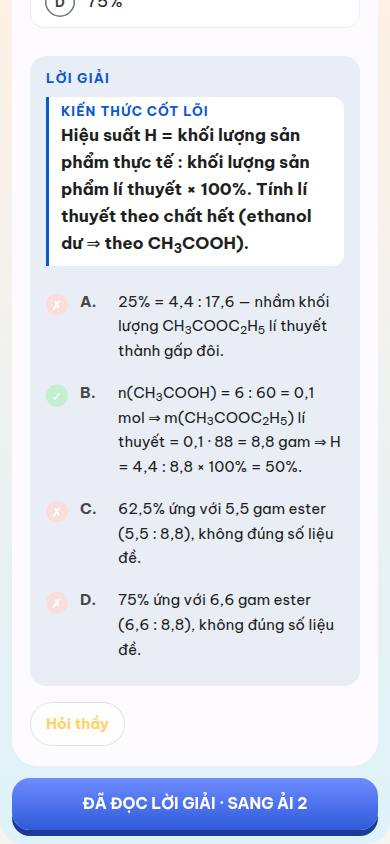
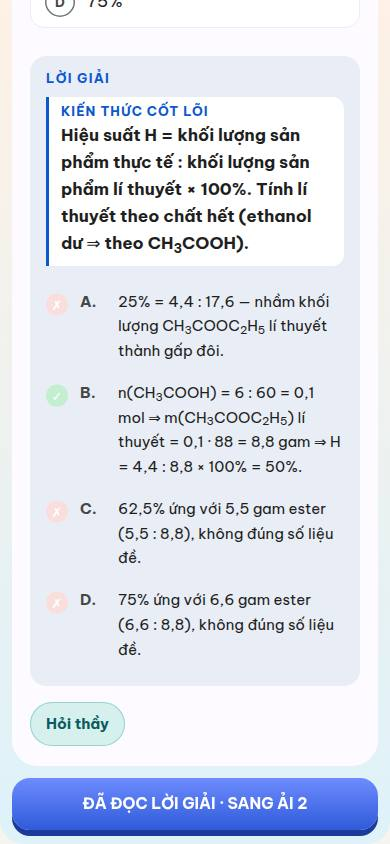
Đảo 2.0 · nút "Hỏi thầy" đọc được trên thẻ lời giải sáng (lỗi có từ trước OMNI)
Nguyên nhân gốc: dao.css tô nút Hỏi thầy kiểu kính tối + chữ vàng cho Đảo cũ nền tối; Đảo 2.0 dùng thẻ giấy sáng ⇒ chữ vàng trên nền kem,
trông như nút bị khoá (đối chiếu bằng bản build thật). Chỉ đổi màu trong Đảo 2.0 (đặc hiệu 0,4,1), cỡ/chữ/vị trí giữ nguyên.

Claude-Session: https://claude.ai/code/session_01CNsQjeB4jcWjbMohw272Tz

Changed region(s): [[0.0615, 0.8318, 0.3385, 0.8934]]

diff --git a/src/game/than-thu-v2/dao2/dao2.css b/src/game/than-thu-v2/dao2/dao2.css
@@ -501,3 +501,7 @@ html.may-yeu .dao2 .dao2-3d-bot,html.may-yeu .dao2 .dao2-3d-cuon,html.may-yeu .d
 /* OMNI 3 · ĐỀ THỬ: CHỈ bố cục — danh sách thẻ câu giấy của Đảo (dọc như ải), rộng tối đa 760 px cho dễ đọc; màu/nút dùng lại lớp sẵn có. */
 .dao2 .dao2-de-thu{display:flex;flex-direction:column;gap:12px;max-width:760px}
 .dao2 .dao2-de-thu-cau{display:flex;flex-direction:column;gap:6px}
+/* NÚT "HỎI THẦY" TRÊN THẺ GIẤY SÁNG CỦA ĐẢO 2.0 (05/10): dao.css tô nút kiểu "kính tối + chữ vàng" (--dao-kinh/--dao-vang) cho Đảo cũ nền tối
+ * ⇒ trên thẻ lời giải sáng của Đảo 2.0 chữ vàng trên nền kem gần như không đọc được, trông như nút bị khoá (bản build thật, ảnh chụp 05/10).
+ * Đặc hiệu 0,4,1 thắng `.dao.dao button.lg-nut--hoi` (0,3,1) bất kể tệp nào nạp trước. Chỉ đổi màu; cỡ, chữ, vị trí giữ nguyên. */
+.dao.dao2.dao-v2 button.lg-nut--hoi{--nut-nen:rgb(214,240,238);--nut-chu:rgb(10,90,96);--nut-bong:inset 0 0 0 1px rgb(150,210,210)}
